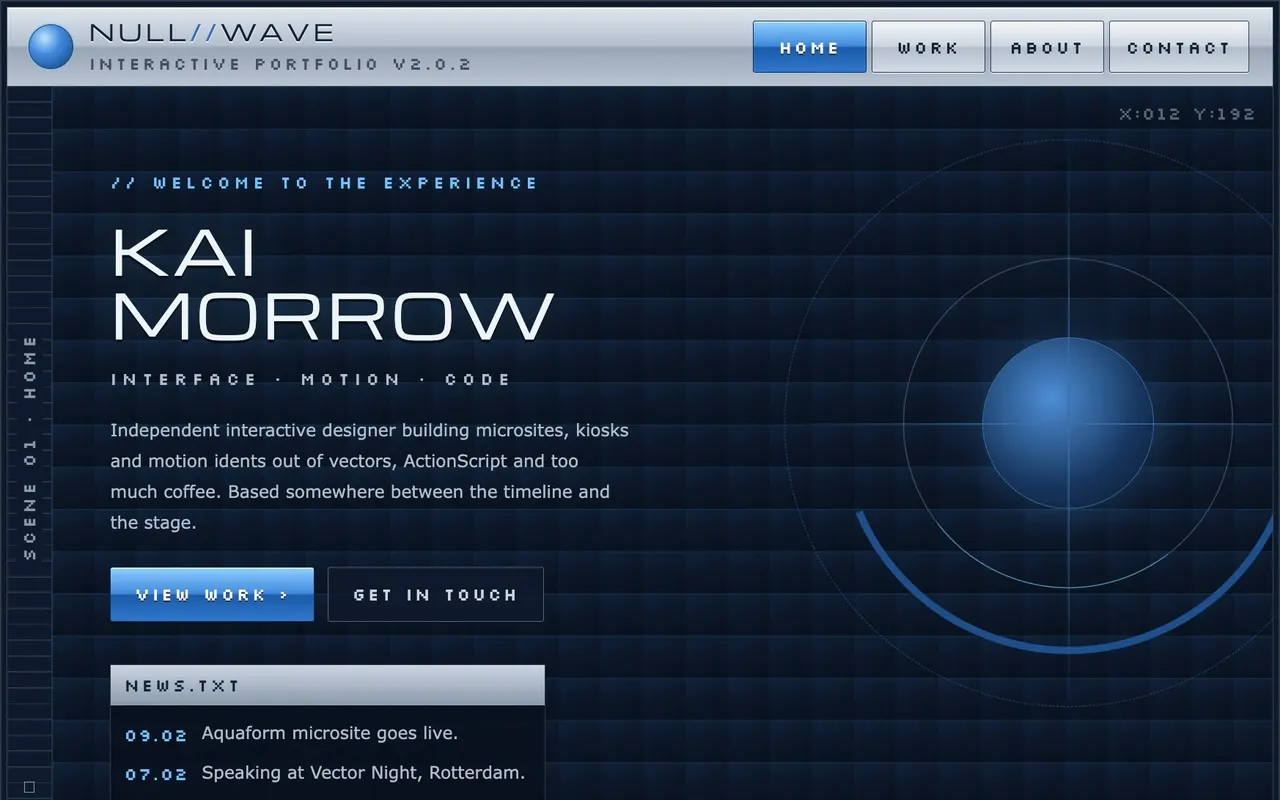
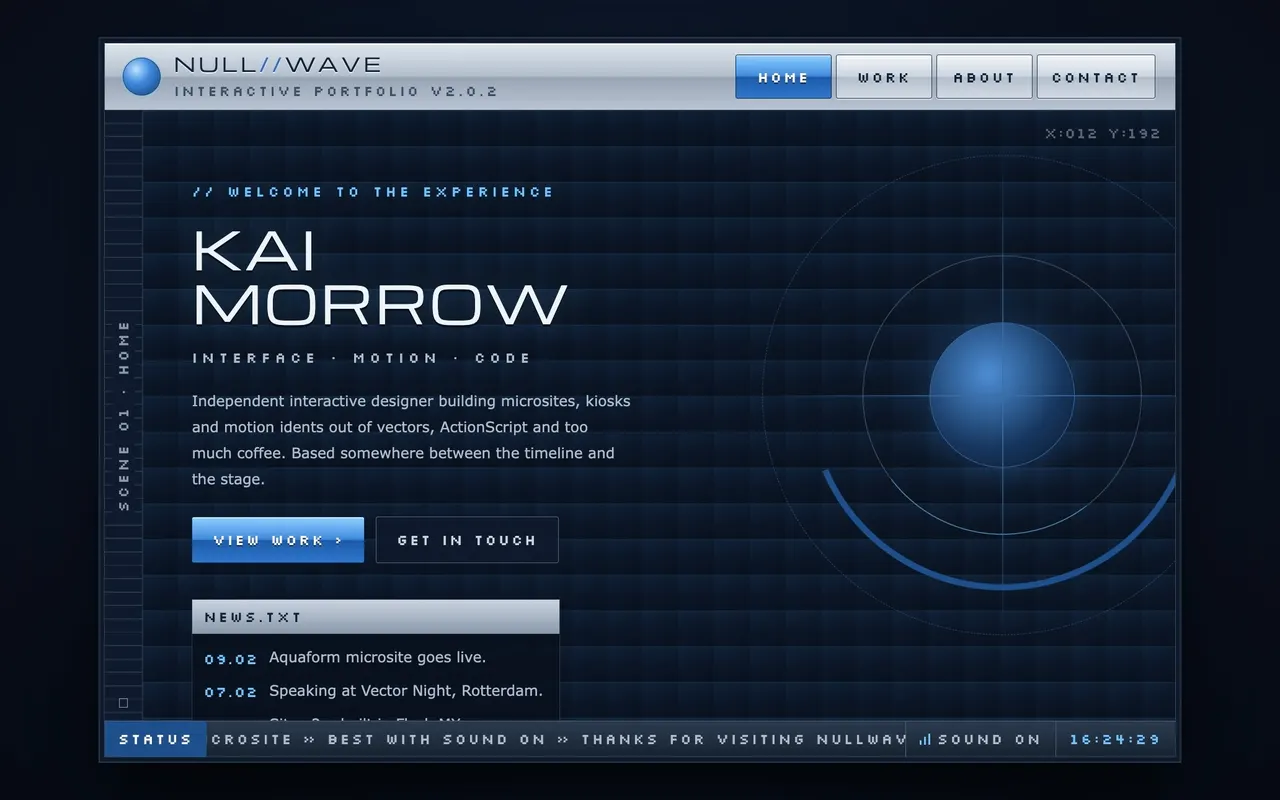
fix padding

diff --git a/src/components/Lightbox/Lightbox.tsx b/src/components/Lightbox/Lightbox.tsx
@@ -1,3 +1,4 @@
+import { ArrowLeft, ArrowRight } from 'lucide-react'
 import { useEffect, useRef, type MouseEvent } from 'react'
 import type { Shot } from '../../data/content'
 import type { LightboxFit } from './LightboxContext'
@@ -86,7 +87,7 @@ export default function Lightbox({ shots, index, title, fit, onClose, onStep }: 
             onStep(-1)
           }}
         >
-          ←
+          <ArrowLeft size={18} aria-hidden="true" />
         </button>
         {/* Keyed by index so each image starts scrolled to the top. */}
         <div key={index} ref={frameRef} className={styles.frame} data-fit={shot.video ? 'contain' : fit}>
@@ -119,7 +120,7 @@ export default function Lightbox({ shots, index, title, fit, onClose, onStep }: 
             onStep(1)
           }}
         >
-          →
+          <ArrowRight size={18} aria-hidden="true" />
         </button>
       </div>
 

diff --git a/src/components/PageLinkList/PageLinkList.tsx b/src/components/PageLinkList/PageLinkList.tsx
@@ -1,3 +1,4 @@
+import { ArrowRight } from 'lucide-react'
 import { Link } from 'react-router-dom'
 import type { PageLink } from '../../data/content'
 import styles from './PageLinkList.module.scss'
@@ -13,9 +14,7 @@ export default function PageLinkList({ links }: { links: PageLink[] }) {
               <span className={styles.label}>{link.label}</span>
               <span className={styles.description}>{link.description}</span>
             </span>
-            <span className={styles.arrow} aria-hidden="true">
-              →
-            </span>
+            <ArrowRight className={styles.arrow} size={18} aria-hidden="true" />
           </Link>
         </li>
       ))}

diff --git a/src/components/Lightbox/Lightbox.module.scss b/src/components/Lightbox/Lightbox.module.scss
@@ -62,13 +62,14 @@
   }
 
   .step {
+    display: grid;
+    place-items: center;
     width: 44px;
     height: 44px;
     border: 1px solid var(--lightbox-border);
     border-radius: 50%;
     background: #0e1828;
     color: inherit;
-    font-size: 18px;
     cursor: pointer;
 
     &:hover,

diff --git a/src/components/PageLinkList/PageLinkList.module.scss b/src/components/PageLinkList/PageLinkList.module.scss
@@ -47,7 +47,7 @@
   }
 
   .arrow {
-    @include mono(14px);
+    align-self: center;
     color: var(--subtle);
     transition: color 0.15s;
   }
